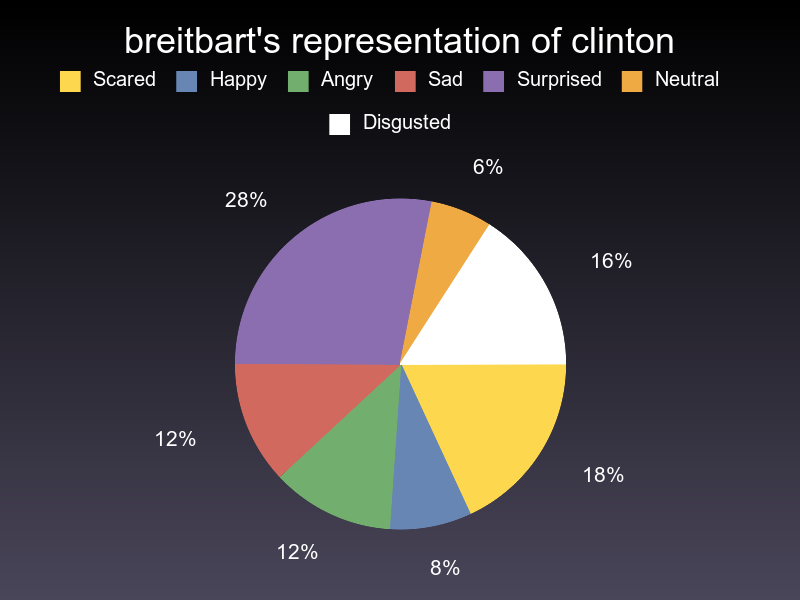
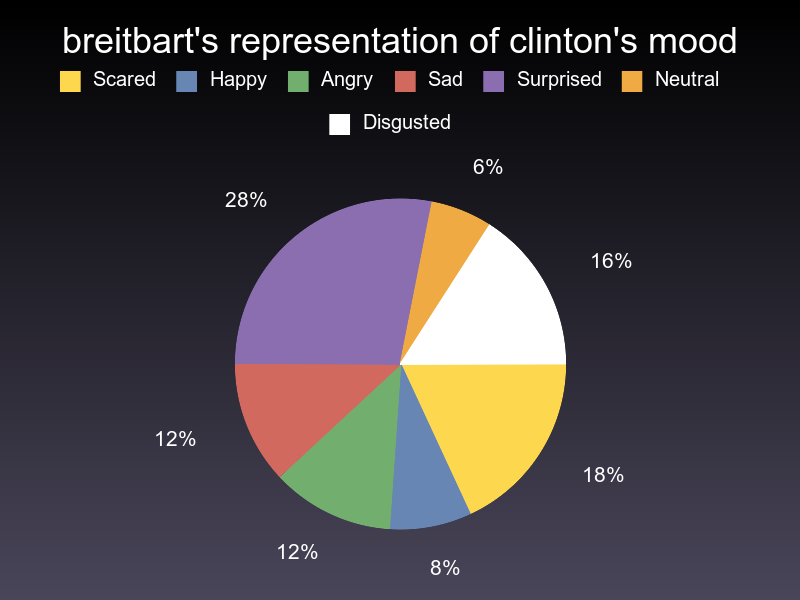
just juggled some code around. No major changes (as far as I remember)

Changed region(s): [[0.0625, 0.03, 0.9375, 0.09]]

diff --git a/mood_and_sentiment_analysis.rb b/mood_and_sentiment_analysis.rb
@@ -1,6 +1,5 @@
 require 'sqlite3'
 require 'gruff'
-#require 'rmagick'
 
 @db = SQLite3::Database.new "collection.sqlite3"
 @valid_entries = @db.execute "SELECT * FROM trump_clinton_collection WHERE (mood = \"happy\") OR (mood = \"sad\") OR (mood = \"disgusted\") OR (mood = \"surprised\") OR (mood = \"neutral\") OR (mood = \"scared\") OR (mood = \"angry\")"
@@ -25,16 +24,34 @@ def analyze_moods(politician, twitter_feed)
 
   moods = @valid_entries.select { |entry| entry[1] == formal_feed_name && politician_names.include?(entry[3]) }
   freq = moods.inject(Hash.new(0)) { |h, v| h[v[6]] += 1;h }
-
-  #dominant_mood = freq.max_by{ |k, v| v }[0]
 end
 
+def analyze_sentiments(politician, twitter_feed)
+  formal_feed_name = ""
+  @twitter_feeds.each do |feed|
+    if twitter_feed == feed[0]
+      formal_feed_name = feed[1]
+    end
+  end
+
+  politician_names = []
+  @politicians.each do |pol|
+    if politician == pol[0]
+      politician_names = pol[1]
+    end
+  end
+
+  sentiments = @valid_entries.select { |entry| entry[1] == formal_feed_name && politician_names.include?(entry[3]) }
+  freq = sentiments.inject(Hash.new(0)) { |h, v| h[v[7]] += 1;h }
+end
+
+#mood charting
 @politicians.each do |politician|
   @twitter_feeds.each do |feed|
     moods = analyze_moods("#{politician[0]}", "#{feed[0]}")
     g = Gruff::Pie.new
     g.font = "/Library/Fonts/Arial.ttf"
-    g.title = "#{feed[0]}'s representation of #{politician[0]}"
+    g.title = "#{feed[0]}'s representation of #{politician[0]}'s mood"
     g.data 'Scared', moods['scared']
     g.data 'Happy', moods['happy']
     g.data 'Angry', moods['angry']
@@ -47,6 +64,23 @@ end
     blend = Magick::Image::read("#{feed[0]}.png").first.resize(100, 50)
     img = img.blend(blend, '100%', '100%', 50, 125)
     img.write("#{politician[0]}_#{feed[0]}_with_overlay.png")
-    require 'pry';binding.pry
+  end
+end
+
+#sentiment charting
+@politicians.each do |politician|
+  @twitter_feeds.each do |feed|
+    sentiments = analyze_sentiments("#{politician[0]}", "#{feed[0]}")
+    g = Gruff::Pie.new
+    g.font = "/Library/Fonts/Arial.ttf"
+    g.title = "sentiment associated with #{politician[0]} in #{feed[0]}"
+    g.data 'Negative', sentiments['negative']
+    g.data 'Neutral', sentiments['neutral']
+    g.data 'Positive', sentiments['positive']
+    g.write("#{politician[0]}_#{feed[0]}_sentiment.png")
+    img = Magick::Image::read("#{politician[0]}_#{feed[0]}_sentiment.png").first
+    blend = Magick::Image::read("#{feed[0]}.png").first.resize(100, 50)
+    img = img.blend(blend, '100%', '100%', 50, 125)
+    img.write("#{politician[0]}_#{feed[0]}_sentiment.png")
   end
 end
